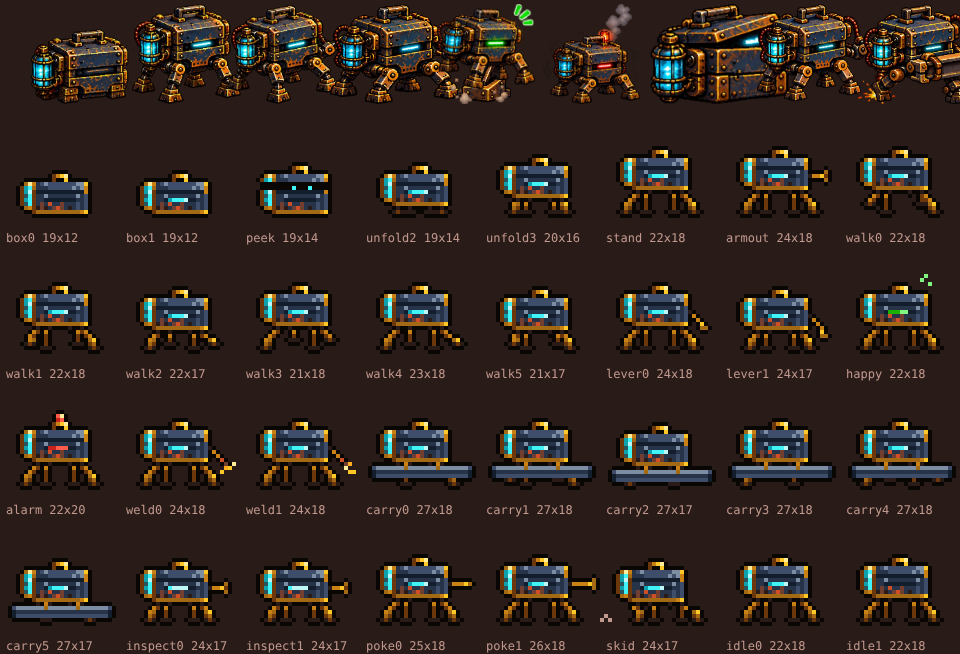
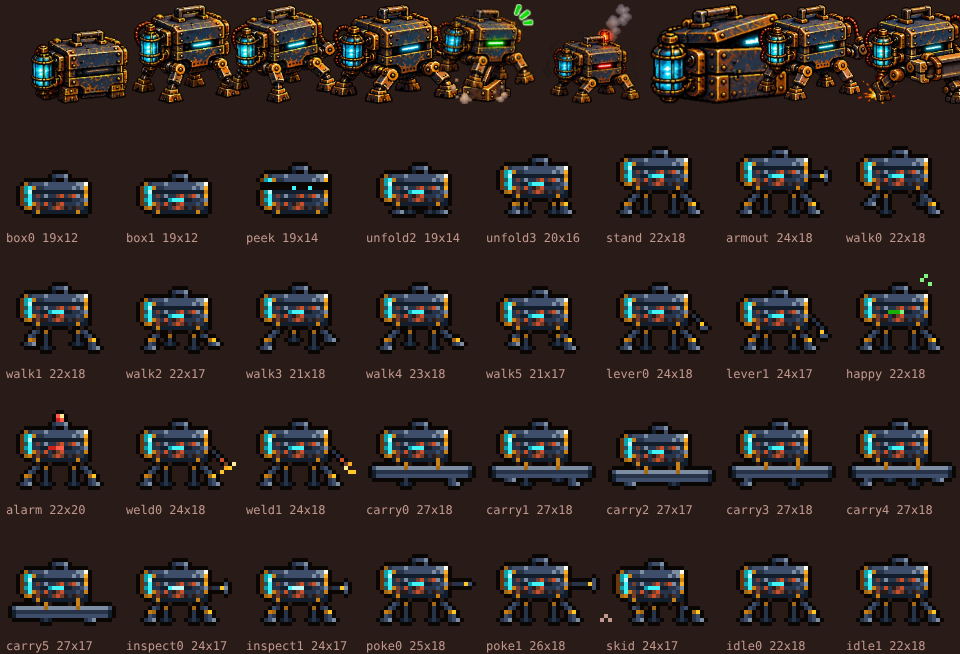
Shippy pixel art: cool dark steel, brass only as rivets and joints (#566)
Matches the art direction in PIXEL-CANVAS.md: steel box and legs, brass knees
and rivets, rust patches, white glint top right, warm sun rim on the right edge.

Claude-Session: https://claude.ai/code/session_01RAeBEDHRW5tqY9TqZ4UJhL

diff --git a/web/src/deck2d/shippy/pixel.ts b/web/src/deck2d/shippy/pixel.ts
@@ -1,5 +1,5 @@
 // Shippy as real pixel art, drawn in code (contract: the pixel canvas, ?px=1). Every frame is built from parts on a
-// grid of art px: the box (lantern on the left, eye slit, brass trim, handle), four brass legs, one arm, props.
+// grid of art px: the box (lantern on the left, eye slit, rivets, handle), four steel legs, one arm, props.
 // Then a 1 art px soot outline goes around the whole shape. Palette only, light from the upper right.
 //
 // Grid coordinates: x right from the body's middle column, y up from the feet (feet sit on row -1).
@@ -16,7 +16,7 @@ const INK: Record<string, string> = {
   g: P.energy[0], G: P.energy[1], E: P.energy[2], F: P.energy[3],
   K: P.ok[1], L: P.ok[2],
   J: P.jam[1], j: P.jam[2],
-  S: P.sun[5], h: P.haze[2],
+  S: P.sun[5], h: P.haze[2], w: P.white[0], l: P.iron[2],
 };
 
 export type PxEye = "off" | "on" | "ok" | "jam" | "wide";
@@ -29,21 +29,22 @@ export type PxFrame =
 type Cells = Map<string, string>;
 export interface PxGrid { cells: Cells; minX: number; maxX: number; minY: number; maxY: number }
 
-// The box in 3/4 view, 17 columns x 10 rows: a caged lantern (0-2), the box (3-16) with brass corner caps.
-// Rows: 0-1 handle, 2-3 top face (catches the light), 4 the lid seam, 5-8 front face, 9 brass base band.
-// Rivets are a light px over a dark one; rust and a grime dither sit low and left, away from the light.
+// The box in 3/4 view, 17 columns x 10 rows: a caged lantern (0-2), the box (3-16) in cool dark steel.
+// Rows: 0-1 iron handle, 2-3 top face (catches the light), 4 the lid seam, 5-8 front face, 9 base band.
+// Brass is jewelry only (rivets, the lantern cage): a white glint on the top right corner, warm sun rim down the
+// right edge, rust and a grime dither low and left, away from the light.
 // The eye slit is row 6 ("#####").
 const BODY = [
-  "........bdef.....",
-  "........b..e.....",
-  ".cfdtuvuuuuuuuvve",
-  "bGEctttuuuuuuvuvd",
-  "bGFbssssssssssssd",
-  "bgEbttvtttttttvtu",
-  "bGEbtts#####ssttu",
-  "bgEbtrtRttrtttutu",
-  ".cdbkrktrRrtktutu",
-  "...bcccccccccccde",
+  "........tuuv.....",
+  "........s..u.....",
+  ".ctuuuvuuuuuuuvvw",
+  "bGEdttuuuuuuuvuvS",
+  "bGFsssssssssssssd",
+  "bgEtrtvttrRtrRvtS",
+  "bGEtts#####ssttuv",
+  "bgEdrtRtkrRtttutd",
+  ".cdkrkktrRrktklts",
+  "...sdsssssssssdss",
 ];
 const EYE: Record<PxEye, string> = { off: "sssss", on: "GEEEF", ok: "KKKLL", jam: "JJjjj", wide: "EFFFF" };
 const EYE_COL = 7, EYE_ROW = 6;
@@ -67,19 +68,19 @@ function body(g: PxGrid, by: number, eye: PxEye, dx = 0, lid = 0) {
 }
 
 /**
- * A jointed brass leg: out from the hip to a knee, straight down to a chunky 3 px foot on row footY.
+ * A jointed steel leg with a brass knee: out from the hip to a knee, straight down to a chunky 3 px foot on row footY.
  * side = which way the knee points, reach = how far out, back = the far pair, a shade darker.
  */
 function leg(g: PxGrid, hx: number, hipY: number, side: -1 | 1, reach: number, footY: number, fwd: number, back: boolean) {
-  const [upper, knee, lower] = back ? ["c", "d", "b"] : ["d", side > 0 ? "e" : "d", "c"];
+  const [upper, knee, lower] = back ? ["t", "c", "t"] : ["u", side > 0 ? "e" : "d", "u"];
   let x = hx;
   for (let y = hipY; y < footY; y++) {
     const r = y - hipY;
     x = hx + side * Math.min(r, reach) + (r >= reach ? fwd : 0);
     put(g, x, y, r === 0 ? "k" : r === reach ? knee : r < reach ? upper : lower);
-    if (!back && r > 0) put(g, x - side, y, r === reach ? "c" : "b"); // the shadow side of a 2 px thick leg
+    if (!back && r > 0) put(g, x - side, y, r === reach ? "c" : "t"); // the shadow side of a 2 px thick leg
   }
-  put(g, x - 1, footY, "k"); put(g, x, footY, back ? "k" : "b"); put(g, x + 1, footY, "k");
+  put(g, x - 1, footY, back ? "s" : "t"); put(g, x, footY, back ? "t" : "u"); put(g, x + 1, footY, back ? "s" : "v");
 }
 
 /** Four legs under a box whose bottom trim is on row by: the far pair first, then the near pair over them. */
@@ -95,12 +96,12 @@ function legs(g: PxGrid, by: number, liftA = 0, liftB = 0, fwd = 0) {
 
 /** Arm parts attach at the box's right side, eye height. */
 const ARMS: Record<string, [number, number, string][]> = {
-  out: [[0, 0, "k"], [1, 0, "d"], [2, 0, "d"], [3, 0, "e"], [4, -1, "c"], [4, 1, "c"], [4, 0, "b"]],
-  lever0: [[0, 0, "k"], [1, 1, "d"], [2, 2, "d"], [3, 3, "e"], [3, 4, "c"], [4, 4, "c"]],
-  lever1: [[0, 0, "k"], [1, 1, "d"], [2, 2, "d"], [3, 3, "d"], [3, 4, "e"], [3, 5, "c"], [4, 5, "c"]],
-  weld: [[0, 0, "k"], [1, 1, "d"], [2, 2, "d"], [3, 3, "R"], [4, 4, "r"]],
-  poke0: [[0, 0, "k"], [1, 0, "d"], [2, 0, "d"], [3, 0, "d"], [4, 0, "e"], [5, 0, "c"]],
-  poke1: [[0, 0, "k"], [1, 0, "d"], [2, 0, "d"], [3, 0, "d"], [4, 0, "d"], [5, 0, "e"], [6, 0, "c"], [6, -1, "c"], [6, 1, "c"]],
+  out: [[0, 0, "k"], [1, 0, "t"], [2, 0, "t"], [3, 0, "e"], [4, -1, "u"], [4, 1, "u"], [4, 0, "v"]],
+  lever0: [[0, 0, "k"], [1, 1, "t"], [2, 2, "t"], [3, 3, "e"], [3, 4, "u"], [4, 4, "u"]],
+  lever1: [[0, 0, "k"], [1, 1, "t"], [2, 2, "t"], [3, 3, "t"], [3, 4, "e"], [3, 5, "u"], [4, 5, "u"]],
+  weld: [[0, 0, "k"], [1, 1, "t"], [2, 2, "t"], [3, 3, "R"], [4, 4, "r"]],
+  poke0: [[0, 0, "k"], [1, 0, "t"], [2, 0, "t"], [3, 0, "t"], [4, 0, "e"], [5, 0, "u"]],
+  poke1: [[0, 0, "k"], [1, 0, "t"], [2, 0, "t"], [3, 0, "t"], [4, 0, "t"], [5, 0, "e"], [6, 0, "u"], [6, -1, "u"], [6, 1, "u"]],
 };
 function arm(g: PxGrid, by: number, name: keyof typeof ARMS, dx = 0) {
   for (const [ax, ay, ch] of ARMS[name]) put(g, 17 - MID + ax + dx, by - (BODY.length - 1 - EYE_ROW) + ay, ch);
